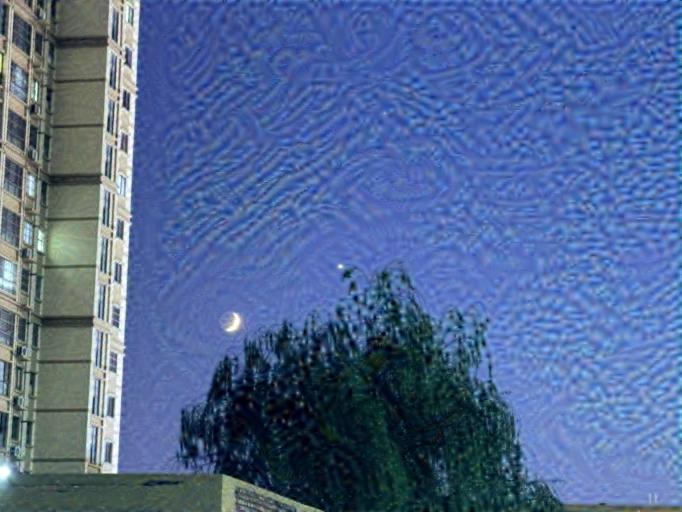
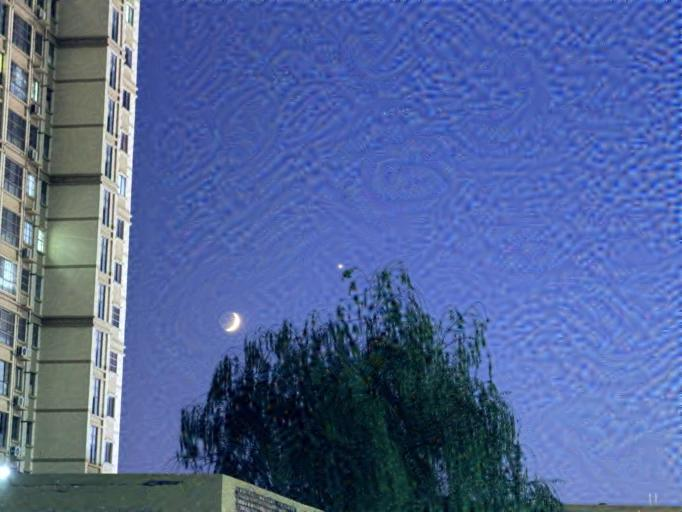
style_transfer: 更新训练脚本与输出图

diff --git a/style_transfer/src/loss.py b/style_transfer/src/loss.py
@@ -4,7 +4,7 @@ import torch.nn.functional as F
 from .utils import gram_matrix
 
 class StyleTransferLoss(nn.Module):
-    def __init__(self,content_weight=1.0,style_weight=1e6,tv_weight=1e-6):
+    def __init__(self,content_weight=1.0,style_weight=8e5,tv_weight=1e-6):
         super(StyleTransferLoss,self).__init__()
         self.content_weight=content_weight
         self.style_weight=style_weight
@@ -12,11 +12,18 @@ class StyleTransferLoss(nn.Module):
 
     def forward(self,target_c_feats,target_s_feats,content_feats,style_feats):
         c_loss=F.mse_loss(target_c_feats['conv4_2'],content_feats['conv4_2'].detach())
+        layer_weights={
+            'conv1_1':0.2,
+            'conv2_1':0.5,
+            'conv3_1':1.0,
+            'conv4_1':1.5,
+            'conv5_1':2.0
+        }
         s_loss=0
         for layer in style_feats.keys():
             target_grm=gram_matrix(target_s_feats[layer])
             style_grm=gram_matrix(style_feats[layer].detach())
-            s_loss+=F.mse_loss(target_grm,style_grm)
+            s_loss+=layer_weights[layer]*F.mse_loss(target_grm,style_grm)
 
         total_loss=self.content_weight*c_loss+self.style_weight*s_loss
 

diff --git a/style_transfer/src/trainer.py b/style_transfer/src/trainer.py
@@ -7,7 +7,7 @@ from .utils import unnormalize
 
 class StyleTransferTrainer:
     def __init__(self,model,content_img,style_img,device='cuda',
-                 content_weight=1.0,style_weight=1e6,tv_weight=1e-6,lr=0.01):
+                 content_weight=1.0,style_weight=8e5,tv_weight=1e-6,lr=0.01):
         self.model=model
         self.content_img=content_img
         self.style_img=style_img
@@ -24,7 +24,7 @@ class StyleTransferTrainer:
 
         self.optimizer=optim.Adam([self.target_img],lr=lr)
 
-    def train(self,steps=500,print_every=50,save_dir='data/outputs'):
+    def train(self,steps=1000,print_every=50,save_dir='data/outputs'):
         print(f"开始训练，总步数：{steps}")
         os.makedirs(save_dir,exist_ok=True)
 

diff --git a/style_transfer/main.py b/style_transfer/main.py
@@ -22,12 +22,12 @@ def main():
         style_img=style_img,
         device=device,
         content_weight=1.0,
-        style_weight=1e6,
+        style_weight=3e5,
         tv_weight=1e-6,
-        lr=0.01
+        lr=0.005
     )
 
-    trainer.train(steps=500,print_every=50)
+    trainer.train(steps=800,print_every=100)
 
 if __name__=='__main__':
     main()
